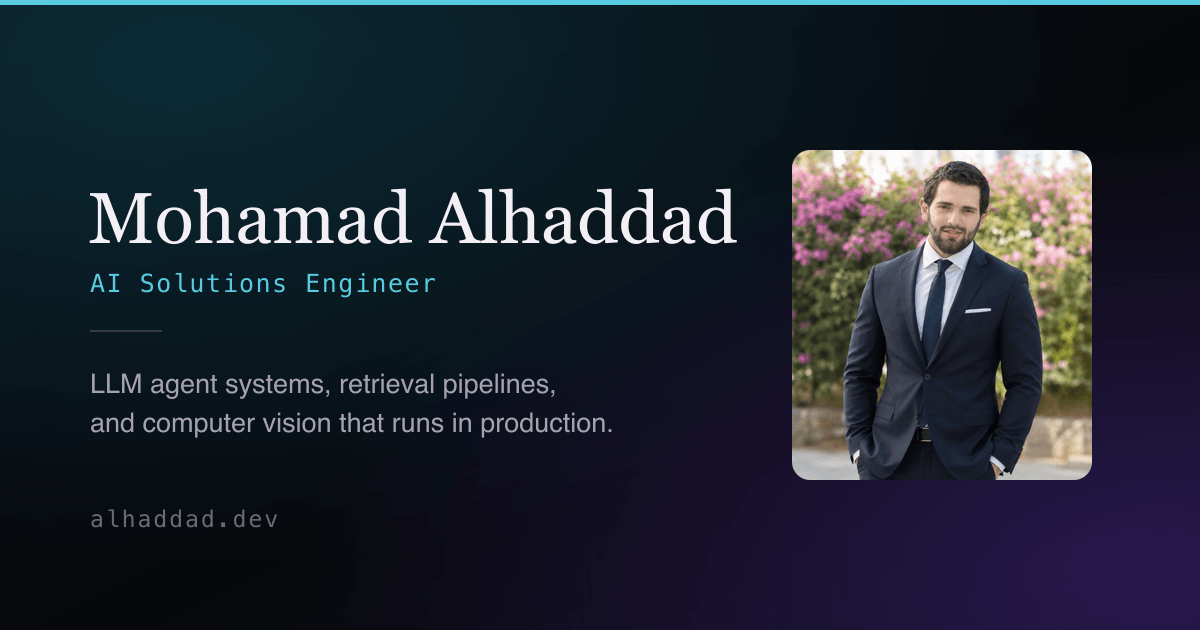
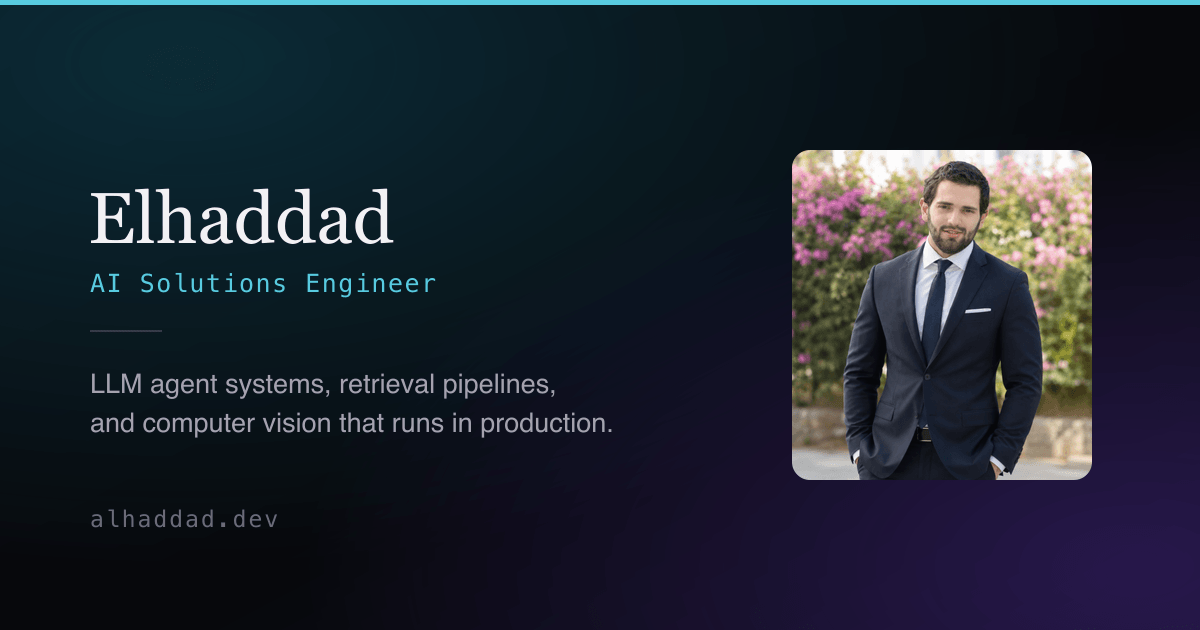
Present as Elhaddad, contact via LinkedIn only
Display name is now the surname alone, spelled Elhaddad. Covers page
titles, the header wordmark, the footer, the OG image and the JSON-LD
author, which has to agree with the visible name or search engines flag
the mismatch. Regenerated og.png since the name is baked into it.

Drops the email from the site so LinkedIn is the only contact, and
promotes it to the primary button. Removing the top-level email field
meant the Person schema could no longer reference it.

Note public/files/cv.pdf still contains the address in its text and is
linked from the hero, so this stops scrapers rather than hiding it
outright.

Changed region(s): [[0.0617, 0.3016, 0.6167, 0.3921]]

diff --git a/src/pages/llms.txt.ts b/src/pages/llms.txt.ts
@@ -46,7 +46,7 @@ export const GET: APIRoute = async () => {
     '',
     '## Contact',
     '',
-    ...site.links.map((l) => `- ${l.label}: ${l.url.replace(/^mailto:/, '')}`),
+    ...site.links.map((l) => `- ${l.label}: ${l.url}`),
     '',
   ].join('\n');
 
